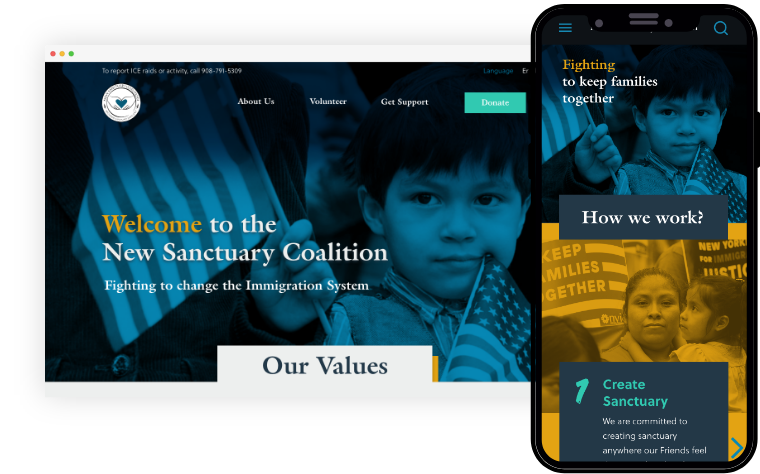
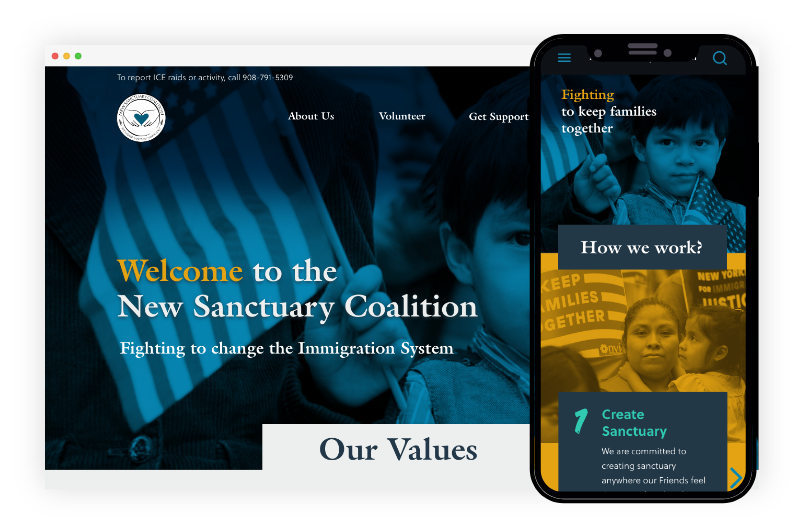
fixed images
changed icons from png to svg to optimize view

diff --git a/CSS/style.css b/CSS/style.css
@@ -10,6 +10,8 @@ h1{
     font-size: 60px;
     color: #F05B5C;
     font-weight: 500;
+    line-height: 60px;
+    margin: 0;
 }
 
 h2{
@@ -17,13 +19,14 @@ h2{
     font-size:48px; 
     font-weight: 600;
     color: #121212;
-    line-height: 0.5;
+    line-height: 48px;
+    margin: 0;
 }
 
 h3{
     font-family: "Volkorn";
     font-size:32px; 
-    font-weight: 600;
+    font-weight: 500;
     color: #121212;  
 }
 
@@ -91,6 +94,7 @@ p{
 
 #menu .nav ul li a:hover {
    color:#F05B5C;
+   transition: color 0.3s ease; 
 }
 
 /* Main */
@@ -106,7 +110,7 @@ p{
 .hero{
     display: flex;
     justify-content:space-between;
-    height: calc(100vh - 140px);
+    height: calc(70vh - 140px);
     align-items: center;
     padding: 5%;
 }
@@ -128,27 +132,56 @@ p{
 
 .hero-text p a.social-linkedin{
     color:#0D87DB;
-    background-image:url(../images/icon-linkedin-hero.png);
-    background-size: cover;
+    background-image:url(../images/icon-linkedin.svg);
+    background-repeat: no-repeat;
+    background-position: left 3px;
+    padding-left: 24px;
+    background-size: 18px;
+    margin-left: 10px; 
+    transition: all 0.3s ease;  
+    text-decoration: none; 
+}
+
+.hero-text p a.social-linkedin:hover{
+    color:#0865A5;
+    text-decoration: underline;
     
 }
 
+.hero-text p a.social-dribbble{
+    color:#0D87DB;
+    background-image:url(../images/icon-dribbble.svg);
+    background-repeat: no-repeat;
+    background-position: left center;
+    padding-left: 24px;
+    background-size: 18px;   
+    margin-left: 10px;
+    transition: all 0.3s ease;  
+    text-decoration: none; 
+}
+
+.hero-text p a.social-dribbble:hover{
+    color:#0865A5;
+    text-decoration: underline;
+    
+}
 
 /* Project Section */
 
 .projects .section-title{
-    box-align:center;
+    text-align:center;
 }
 
 .project{
     display: flex;
-    padding:3%;
-    height: 70vh;
+    padding:50px 15vh;
     align-items: center;
+    justify-content: space-between;
 }
 
 .project-img{
     flex-basis: 50%;
+    margin:0px;
 }
 
 .project-img img{
@@ -157,7 +190,7 @@ p{
 }
 
 .project-text{
-    flex-basis: 50%;
+    flex-basis: 45%;
 }
 
 .project-text a{
@@ -165,14 +198,17 @@ p{
     font-style: italic;
     font-weight: 500;
     color: #121212;
-    background-image: url(../images/arrow-right.png);
+    background-image: url(../images/arrow-right.svg);
     background-repeat: no-repeat;
     background-position: right center;
     padding-right: 26px;
+    transition: color 0.3s ease; 
 }
 
 .project-text a:hover {
-    color:#0D87DB;
+    color:#F05B5C;
+    transition: color 0.3s ease;
+    background-image: url(../images/arrow-right-red.svg);
  }
 
 .project:nth-of-type(odd){
@@ -181,9 +217,12 @@ p{
 .project:nth-of-type(even){
     flex-direction: row-reverse;
 }
-
+.project:nth-of-type(even) .project-img{
+    flex-basis: 45;
+}
 .project:nth-of-type(even) .project-text{
     text-align: right;
+    flex-basis: 50;
 }
 
 /* Footer*/
@@ -192,6 +231,7 @@ footer{
     width: 100%;
     height: 120px;
     display: flex;
+    margin-top: 15vh;
 }
 
 footer .wrapper{
@@ -200,30 +240,34 @@ footer .wrapper{
     align-items: center;
 }
 
+footer p{
+    font-size: 14px;
+}
+
 footer ul.social{
     padding:0;
 }
 
 footer ul.social li{
-    display: inline-block;
-    
+    display: inline-block;  
 }
-
 
 footer a.footer-linkedin{
     display: block;
     width: 22px;
-    height: 20px;
-    background-size: cover;
-    background-image: url(../images/icon-linkedin-footer.png);
+    height: 22px;
+    background-size: 22px;
+    background-repeat: no-repeat;
+    background-image: url(../images/icon-linkedin.svg);
 }
 
 footer a.footer-dribbble{
     display: block;
     width: 22px;
     height: 22px;
-    background-size: cover;
-    background-image: url(../images/icon-dribbble-footer.png);
+    background-size: 22px;
+    background-repeat: no-repeat;
+    background-image: url(../images/icon-dribbble.svg);
     margin-left: 15px;
 }
 
@@ -232,10 +276,10 @@ a.contact{
     font-size: 20px;
     font-weight: regular;
     color:#121212;
-    text-decoration: none;
-    
+    text-decoration: none;  
 }
     
 a.contact:hover {
-    color:#F05B5C; 
+    color:#F05B5C;
+    transition: color 0.3s ease;  
 }

diff --git a/index.html b/index.html
@@ -39,7 +39,7 @@
                 <h4>Ux Designer specialized on Interaction Design. I love making complex interactions in to seamless experiences.</h4>
                 <p>Find me on:
                     <a class="social-linkedin" href="https://www.linkedin.com/in/ndupre/">LinkedIn</a>
-                    <a class="social-Dribbble" href="https://www.linkedin.com/in/ndupre/">Dribbble</a>
+                    <a class="social-dribbble" href="https://www.linkedin.com/in/ndupre/">Dribbble</a>
                 </p>
                 <p> Or Drop me a line at nicole.dupre@gmail.com</p>    
             </div>
@@ -79,7 +79,7 @@
 
     <footer>
         <div class=wrapper>
-            <p>2020 Nicole Dupre, All rights reserved</p>
+            <p>2020 Nicole Dupre,<br> All rights reserved</p>
             <ul class="social">
                 <li>
                     <a class="footer-linkedin"></a>
